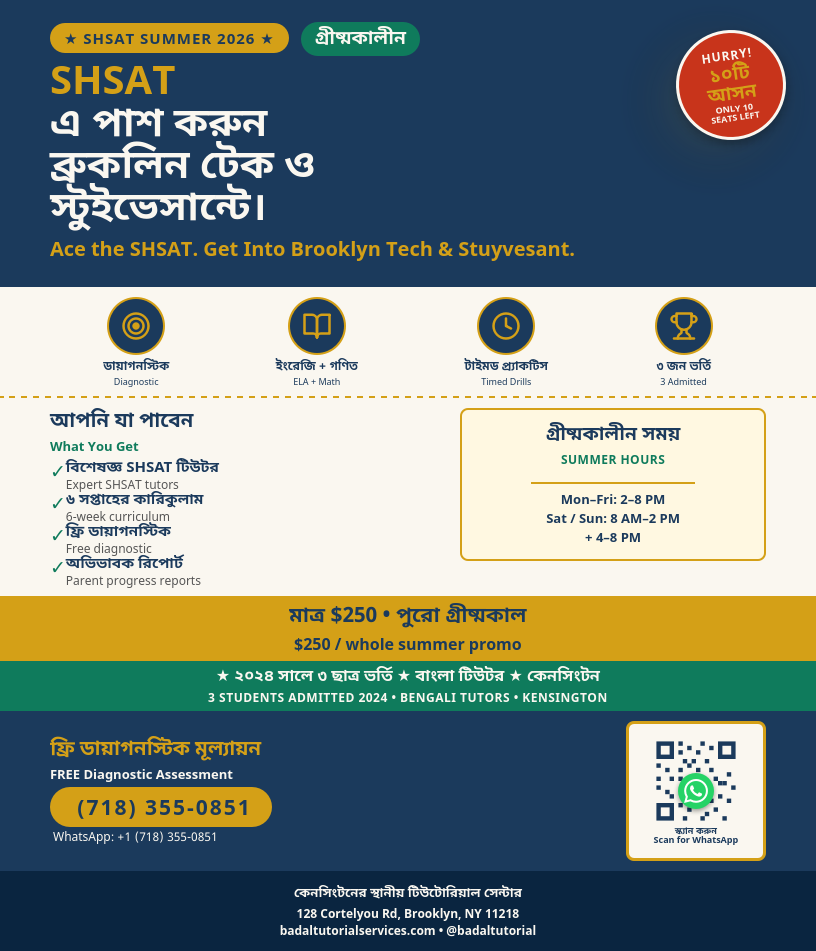
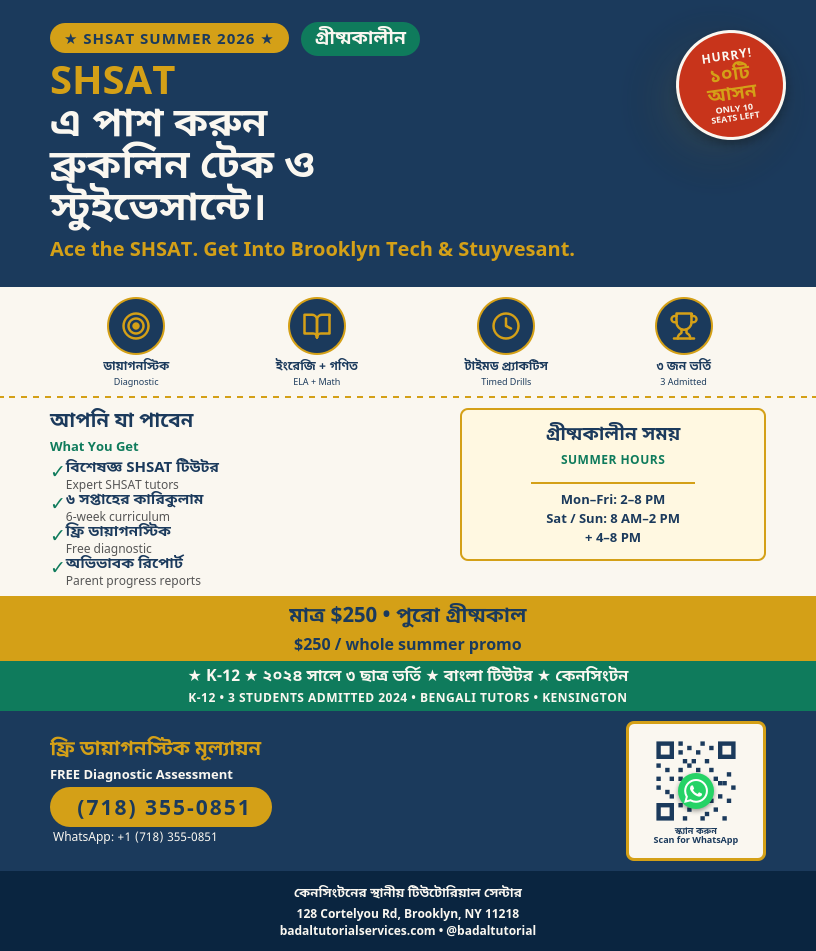
Add K-12 to all 3 flyers
- Regents trust: 'K-12 ALL GRADES' (was '100+ STUDENTS')
- SHSAT trust: 'K-12' prefix added
- ESL: Gr 3-5 → K-5, Gr 6-8 → 6-12 (K-12 already in trust strip)

Changed region(s): [[0.2145, 0.7014, 0.7659, 0.7624]]

diff --git a/flyers/esl-bn.html b/flyers/esl-bn.html
@@ -147,15 +147,15 @@
       <div class="body-row">
         <span class="check">✓</span>
         <div>
-          <div class="body-text-bn">একাডেমিক ইংরেজি (৩-৫)</div>
-          <div class="body-text-en">Academic English (Gr 3-5)</div>
+          <div class="body-text-bn">একাডেমিক ইংরেজি (K-5)</div>
+          <div class="body-text-en">Academic English (K-5)</div>
         </div>
       </div>
       <div class="body-row">
         <span class="check">✓</span>
         <div>
-          <div class="body-text-bn">কন্টেন্ট ইংরেজি (৬-৮)</div>
-          <div class="body-text-en">Content English (Gr 6-8)</div>
+          <div class="body-text-bn">কন্টেন্ট ইংরেজি (৬-১২)</div>
+          <div class="body-text-en">Content English (6-12)</div>
         </div>
       </div>
       <div class="body-row">

diff --git a/flyers/shsat-bn.html b/flyers/shsat-bn.html
@@ -192,8 +192,8 @@
   </div>
 
   <div class="trust">
-    <div class="trust-bn">★ ২০২৪ সালে ৩ ছাত্র ভর্তি ★ বাংলা টিউটর ★ কেনসিংটন</div>
-    <div class="trust-en">3 STUDENTS ADMITTED 2024 • BENGALI TUTORS • KENSINGTON</div>
+    <div class="trust-bn">★ K-12 ★ ২০২৪ সালে ৩ ছাত্র ভর্তি ★ বাংলা টিউটর ★ কেনসিংটন</div>
+    <div class="trust-en">K-12 • 3 STUDENTS ADMITTED 2024 • BENGALI TUTORS • KENSINGTON</div>
   </div>
 
   <div class="cta">

diff --git a/flyers/regents-bn.html b/flyers/regents-bn.html
@@ -196,8 +196,8 @@
   </div>
 
   <div class="trust">
-    <div class="trust-bn">★ বাংলাভাষী টিউটর ★ কেনসিংটন ★ ১০০+ ছাত্র ★</div>
-    <div class="trust-en">BENGALI TUTORS • KENSINGTON • 100+ STUDENTS</div>
+    <div class="trust-bn">★ K-12 সব ক্লাস ★ বাংলাভাষী টিউটর ★ কেনসিংটন ★</div>
+    <div class="trust-en">K-12 ALL GRADES • BENGALI TUTORS • KENSINGTON</div>
   </div>
 
   <div class="cta">
